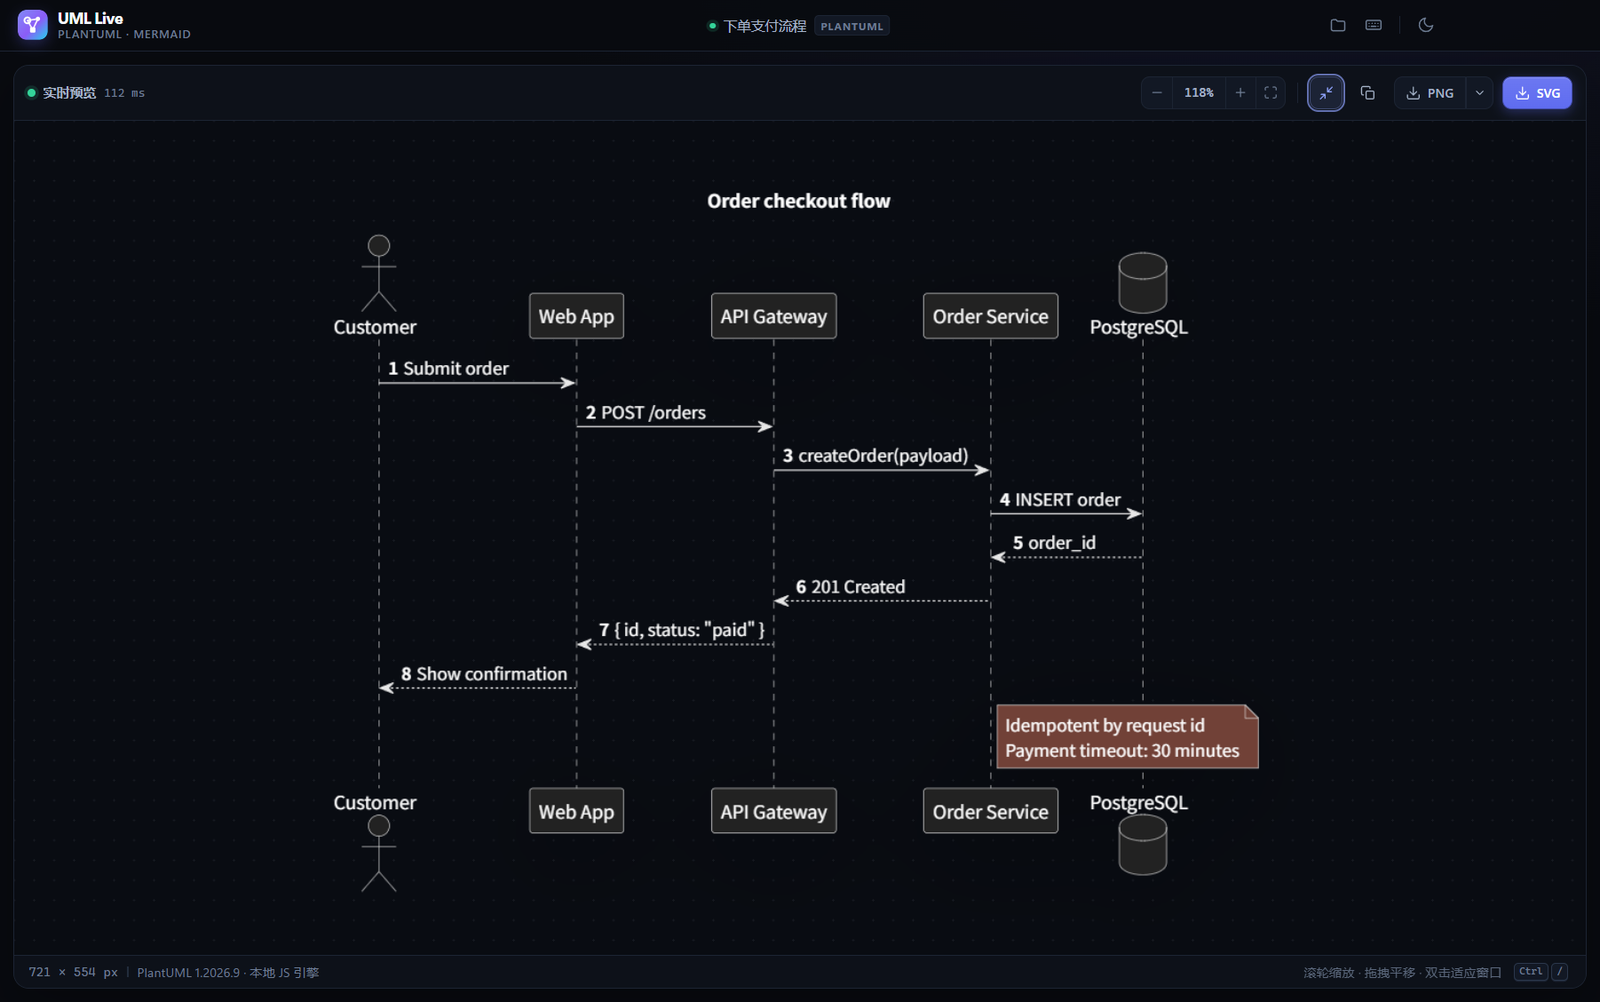
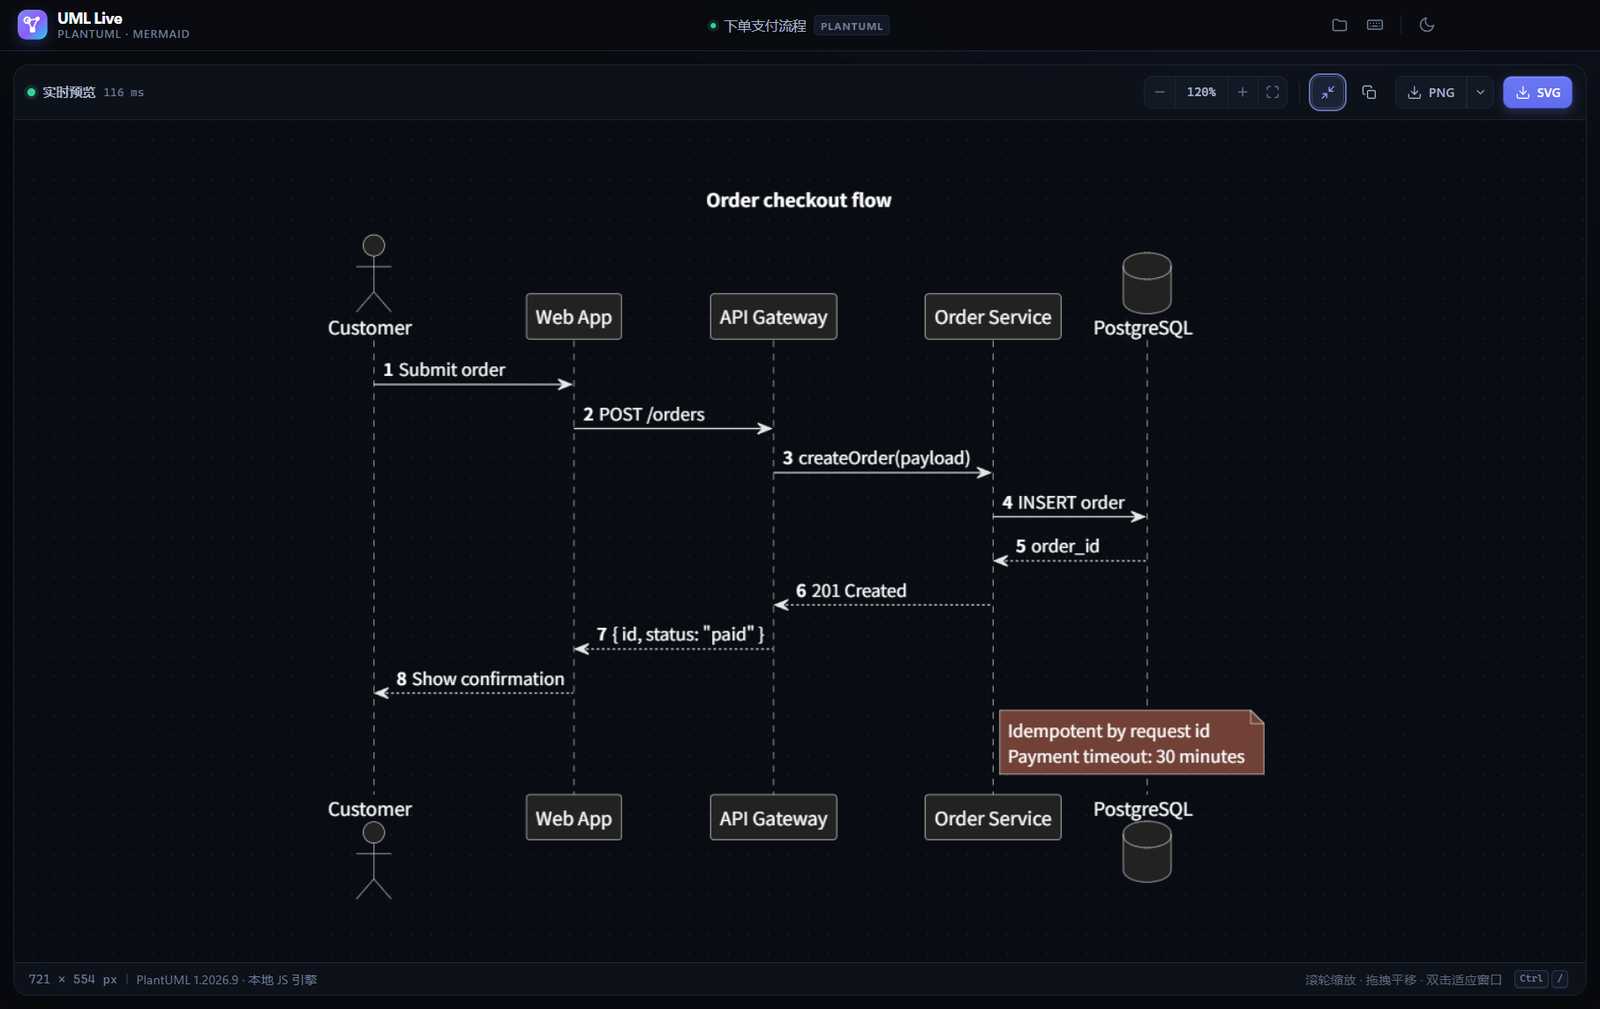
Remove preview shadow and use white export background

diff --git a/src/js/main.js b/src/js/main.js
@@ -141,7 +141,8 @@ const state = {
   live: stored.live !== false,
   split: clamp(Number(stored.split) || 48, 26, 74),
   pngScale: [1, 2, 3].includes(Number(stored.pngScale)) ? Number(stored.pngScale) : 2,
-  transparent: stored.transparent === true,
+  // White is now the default export background; transparency must be opted into.
+  transparent: stored.exportBackground === 'transparent',
   revision: 0,
   renderToken: 0,
   renderTimer: null,
@@ -220,7 +221,7 @@ function persistNow() {
         live: state.live,
         split: state.split,
         pngScale: state.pngScale,
-        transparent: state.transparent,
+        exportBackground: state.transparent ? 'transparent' : 'white',
       }),
     );
     setSaveState('saved');
@@ -317,7 +318,7 @@ function updateActions() {
 }
 
 function updatePngLabels() {
-  const suffix = `${state.pngScale}× · ${state.transparent ? '透明背景' : '主题背景'}`;
+  const suffix = `${state.pngScale}× · ${state.transparent ? '透明背景' : '纯白背景'}`;
   dom.exportPngBtn.title = `导出 PNG (${suffix}) · Ctrl+Shift+P`;
   dom.copyImageBtn.title = `复制图片 (${suffix}) · Ctrl+Shift+C`;
 }
@@ -879,10 +880,27 @@ async function saveSource({ saveAs = false } = {}) {
 /* Exports                                                                    */
 /* -------------------------------------------------------------------------- */
 
-function exportBackground() {
-  if (state.transparent) return 'transparent';
-  const value = getComputedStyle(document.documentElement).getPropertyValue('--preview-bg').trim();
-  return value || (state.theme === 'dark' ? '#090c12' : '#f8fafd');
+function exportBackground(options = {}) {
+  const transparent = options.transparent ?? state.transparent;
+  return transparent ? 'transparent' : '#ffffff';
+}
+
+/**
+ * White-background exports use the light diagram palette so they remain
+ * readable when inserted into documents. Transparent exports keep the palette
+ * that is currently visible in the preview.
+ */
+async function getExportSvg({ transparent = state.transparent } = {}) {
+  if (transparent || state.theme !== 'dark' || !state.lastSvg) {
+    return state.lastSvg;
+  }
+  const language = state.language;
+  const code = state.codes[language];
+  const result =
+    language === 'mermaid'
+      ? await renderMermaid(code, { dark: false })
+      : await renderPlantUml(code, { dark: false });
+  return result.svg;
 }
 
 async function exportSvg(options = {}) {
@@ -891,8 +909,9 @@ async function exportSvg(options = {}) {
     return { ok: false, reason: 'empty' };
   }
   try {
-    const prepared = prepareSvg(state.lastSvg);
     const background = exportBackground();
+    const svg = await getExportSvg();
+    const prepared = prepareSvg(svg);
     const markup = withXmlDeclaration(
       background === 'transparent' ? prepared.markup : addSvgBackground(prepared.markup, background),
     );
@@ -930,12 +949,10 @@ async function exportPng(options = {}) {
     document.body.classList.add('is-exporting');
     const scale = options.scale ?? state.pngScale;
     const transparent = options.transparent ?? state.transparent;
-    const render = await renderPng(state.lastSvg, {
+    const svg = await getExportSvg({ transparent });
+    const render = await renderPng(svg, {
       scale,
-      background: transparent
-        ? 'transparent'
-        : getComputedStyle(document.documentElement).getPropertyValue('--preview-bg').trim() ||
-          (state.theme === 'dark' ? '#090c12' : '#f8fafd'),
+      background: exportBackground({ transparent }),
     });
     if (render.scale + 0.01 < scale && !options.quiet) {
       toast('图表尺寸过大，已自动降低 PNG 分辨率。', 'info', 3200);
@@ -980,12 +997,10 @@ async function copyImage(options = {}) {
     document.body.classList.add('is-exporting');
     const scale = options.scale ?? state.pngScale;
     const transparent = options.transparent ?? state.transparent;
-    const render = await renderPng(state.lastSvg, {
+    const svg = await getExportSvg({ transparent });
+    const render = await renderPng(svg, {
       scale,
-      background: transparent
-        ? 'transparent'
-        : getComputedStyle(document.documentElement).getPropertyValue('--preview-bg').trim() ||
-          (state.theme === 'dark' ? '#090c12' : '#f8fafd'),
+      background: exportBackground({ transparent }),
     });
     if (bridge) {
       const result = await bridge.copyImage(render.bytes);
@@ -1275,7 +1290,8 @@ function openPngOptionsMenu(anchor) {
   note.style.fontWeight = '400';
   note.style.fontSize = '9.5px';
   note.style.lineHeight = '1.5';
-  note.textContent = '倍率用于 PNG 与复制图片；透明背景同时作用于 PNG 和 SVG。';
+  note.textContent =
+    '默认导出为纯白背景，深色主题下会自动使用浅色图表配色；透明背景同时作用于 PNG 和 SVG。';
   menu.appendChild(note);
 
   showPopover(menu, anchor);

diff --git a/src/styles.css b/src/styles.css
@@ -63,7 +63,6 @@ html[data-theme="dark"] {
   --popover-shadow: 0 24px 60px rgba(0, 0, 0, 0.55), 0 0 0 1px rgba(255, 255, 255, 0.02) inset;
   --toast-shadow: 0 16px 40px rgba(0, 0, 0, 0.42);
   --scroll-thumb: rgba(148, 163, 184, 0.22);
-  --diagram-shadow: drop-shadow(0 18px 40px rgba(0, 0, 0, 0.32));
   --accent: #8fa3ff;
   --accent-strong: #b3c0ff;
   --accent-soft: rgba(143, 163, 255, 0.12);
@@ -104,7 +103,6 @@ html[data-theme="light"] {
   --popover-shadow: 0 24px 60px rgba(20, 35, 65, 0.18), 0 1px 2px rgba(20, 35, 65, 0.06);
   --toast-shadow: 0 18px 45px rgba(20, 35, 65, 0.16);
   --scroll-thumb: rgba(71, 85, 105, 0.22);
-  --diagram-shadow: drop-shadow(0 16px 30px rgba(30, 45, 80, 0.12));
   --accent: #4f46e5;
   --accent-strong: #4338ca;
   --accent-soft: rgba(79, 70, 229, 0.08);
@@ -1101,7 +1099,6 @@ html[data-theme="light"] .preview-viewport::after {
 .diagram-svg svg {
   display: block;
   max-width: none !important;
-  filter: var(--diagram-shadow);
 }
 
 .preview-viewport.is-empty .diagram-layer,
@@ -1116,10 +1113,6 @@ html[data-theme="light"] .preview-viewport::after {
 
 .preview-viewport.is-panning {
   cursor: grabbing;
-}
-
-.preview-viewport.is-panning .diagram-svg svg {
-  filter: none;
 }
 
 .preview-placeholder {

diff --git a/README.md b/README.md
@@ -30,9 +30,9 @@
 - **系统托盘**：关闭窗口时弹出与应用同主题的确认对话框，可选择最小化到托盘（默认）或退出；托盘菜单支持重新打开与退出。
 - **浅色 / 深色主题**：应用界面与图表同步切换，标题栏原生控件颜色也会同步。
 - **导出与复制**：
-  - 导出 SVG，默认包含主题背景，也可以在导出设置中改为透明；
-  - 导出 PNG，支持 1× / 2× / 3×，透明或主题背景；
-  - 一键复制 PNG 图片到 Windows 剪贴板。
+  - 导出 SVG，默认纯白背景，也可以在导出设置中改为透明；
+  - 导出 PNG，支持 1× / 2× / 3×，默认纯白背景，可选透明背景；
+  - 一键复制 PNG 图片到 Windows 剪贴板，默认同样使用纯白背景。
 - **效率细节**：12 个内置模板、文件打开 / 保存、拖拽 `.puml` / `.mmd` 文件、源码自动保存、窗口位置记忆、完整快捷键面板。
 - **错误反馈**：语法错误时保留上一次成功预览并叠加错误面板；PlantUML / Mermaid 错误会尽量提取行号和原始信息。
 - **安全默认值**：渲染进程开启 `sandbox` 与 `contextIsolation`，关闭 `nodeIntegration`，使用 CSP 与白名单 IPC。
@@ -116,10 +116,11 @@ npm run dist
 
 ### 导出
 
-- **SVG**：顶部「SVG」按钮直接导出；默认按当前主题注入背景，可在导出设置中勾选透明背景。
-- **PNG**：点击「PNG」按钮按当前倍率导出，PNG 旁 ▾ 菜单可切换 1× / 2× / 3× 与透明背景。
-- **复制图片**：按当前 PNG 倍率生成图片并写入 Windows 剪贴板。
-- 透明背景设置同时作用于 PNG、复制图片和 SVG。
+- **SVG**：顶部「SVG」按钮直接导出；默认使用 `#ffffff` 纯白背景，可在导出设置中勾选透明背景。
+- **PNG**：点击「PNG」按钮按当前倍率导出，默认纯白背景；PNG 旁 ▾ 菜单可切换 1× / 2× / 3× 与透明背景。
+- **复制图片**：按当前 PNG 倍率生成图片并写入 Windows 剪贴板，默认白色背景。
+- 深色主题下使用白底导出时，会自动按浅色配色重新渲染图表，确保白底上的文字和线条清晰可读。
+- 透明背景设置同时作用于 PNG、复制图片和 SVG，并保留当前预览中的图表配色。
 - 超大图表会自动限制到约 80MP / 16384px 单边，避免 Canvas 崩溃。
 
 ### 预览操作
@@ -234,7 +235,7 @@ PlantUML 官方在 npm 发布了 `@plantuml/core`：它是 PlantUML 通过
 2. PlantUML / Mermaid 返回 SVG；
 3. `svg.js` 解析并清除脚本、事件属性、`javascript:` 链接、外部远程图片和 PlantUML 的 `<?plantuml-src?>` 处理指令；
 4. 预览使用 `importNode` 插入 SVG，并基于 `viewBox` 计算尺寸，支持缩放和平移；
-5. 导出 SVG 时按需注入主题背景；导出 PNG / 复制图片时通过 Canvas 从矢量重新栅格化，再通过 IPC 保存或写入剪贴板。
+5. 导出使用纯白背景（透明选项除外）；深色主题下会按浅色配色重新渲染。PNG / 复制图片通过 Canvas 从矢量重新栅格化，再通过 IPC 保存或写入剪贴板。
 
 ## 开发与构建
 

diff --git a/RELEASE_NOTES.md b/RELEASE_NOTES.md
@@ -15,7 +15,7 @@ UML Live 是一款面向 Windows 的 PlantUML / Mermaid 实时预览工具：左
 - **面向开发的编辑器**：CodeMirror 6、语法高亮、独立语言源码、12 个内置模板与源码自动保存。
 - **灵活的预览控制**：滚轮缩放、拖拽平移、恢复 100% 并居中、双击适应窗口。
 - **全屏预览**：点击预览工具栏按钮或按 `F11` 收起代码区，让图表占满工作区；`Esc` 可退出。
-- **导出与分享**：导出 SVG、PNG（1× / 2× / 3×，支持透明或主题背景），并可直接复制图片到 Windows 剪贴板。
+- **导出与分享**：导出 SVG、PNG（1× / 2× / 3×，默认纯白背景，可选透明背景），并可直接复制图片到 Windows 剪贴板。
 - **文件与效率功能**：打开 / 保存源码、拖拽 `.puml` / `.mmd` 文件、窗口位置记忆、浅色 / 深色主题和完整快捷键面板。
 - **系统托盘**：关闭窗口时弹出与应用同主题的确认对话框，询问“最小化到托盘（默认）/ 退出”；托盘菜单可重新打开窗口或退出应用。
 - **本地与安全**：启用 `sandbox`、`contextIsolation` 和 CSP；源码仅保存在本机，不上传、无遥测。
